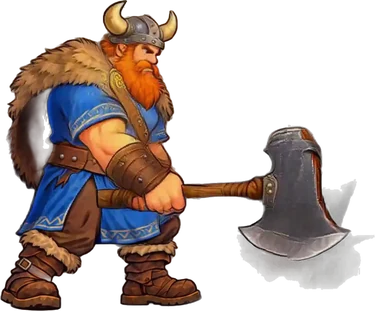
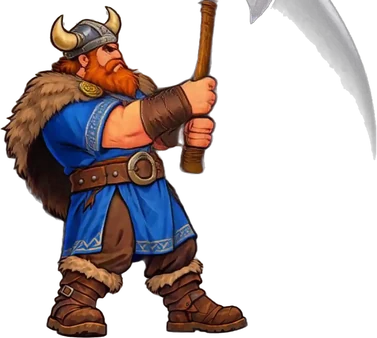
Úder přes hlavu bez mizející sekery, póza v sedle při jízdě na ještěrovi
Claude-Session: https://claude.ai/code/session_015jCRZS7ASg3pqxo763VEwg

diff --git a/tools/build_anims.py b/tools/build_anims.py
@@ -12,6 +12,7 @@ from PIL import Image
 
 HERO_HEIGHT = 88.0      # výška hrdiny ve hře (logické pixely)
 TEX_HEIGHT = 330.0      # výška hrdiny v texturách (px)
+RIDE_DROP = 150.0       # o kolik px (ve videu) je jezdec posazený níž
 
 # Zdrojová videa (snímky po tools/video_to_frames.py při 12 fps):
 #   složka (relativně k argumentu skriptu), kotva = místo mezi chodidly na zemi, výška hrdiny ve videu
@@ -26,7 +27,8 @@ ANIMS = {
     "walk": ("v2", list(range(9, 25)), 12.0, True, -1, "ground"),
     "atk1": ("v3", [55, 56, 57, 58, 59, 60, 61], 12.0, False, 3, "ground"),
     "atk2": ("v3", [61, 62, 63, 64, 65, 66], 12.0, False, 2, "ground"),
-    "atk3": ("v3", list(range(71, 82)), 12.0, False, 6, "ground"),
+    "atk3": ("v3", [71, 72, 73, 74, 77, 78, 79, 80, 81], 12.0, False, 4, "ground"),
+    "ride": ("v3", [111], 1.0, True, -1, "ride"),
     "jump": ("v3", [111, 101, 102, 103, 104, 112], 12.0, False, -1, "feet"),
     "magic": ("v3", list(range(140, 165)), 12.0, False, 12, "ground"),
     "down": ("v3", list(range(83, 100)), 12.0, False, -1, "ground"),
@@ -62,7 +64,12 @@ def main(frames_root):
             fname = f"{name}_{n:02d}.webp"
             crop.save(os.path.join(out_dir, fname), quality=88, method=6)
             ax = anc[0] * scale
-            ay = anc[1] * scale if anchor == "ground" else float(y1)
+            if anchor == "ground":
+                ay = anc[1] * scale
+            elif anchor == "ride":
+                ay = (anc[1] - RIDE_DROP) * scale   # v sedle: nohy visí pod úroveň sedla
+            else:
+                ay = float(y1)
             paths.append(f'"res://art/hero_anim/{fname}"')
             offs.append(f"Vector2({x0 - ax:.1f}, {y0 - ay:.1f})")
         lines.append(f'\t"{name}": {{"fps": {fps}, "loop": {str(loop).lower()}, "impact": {impact},')
